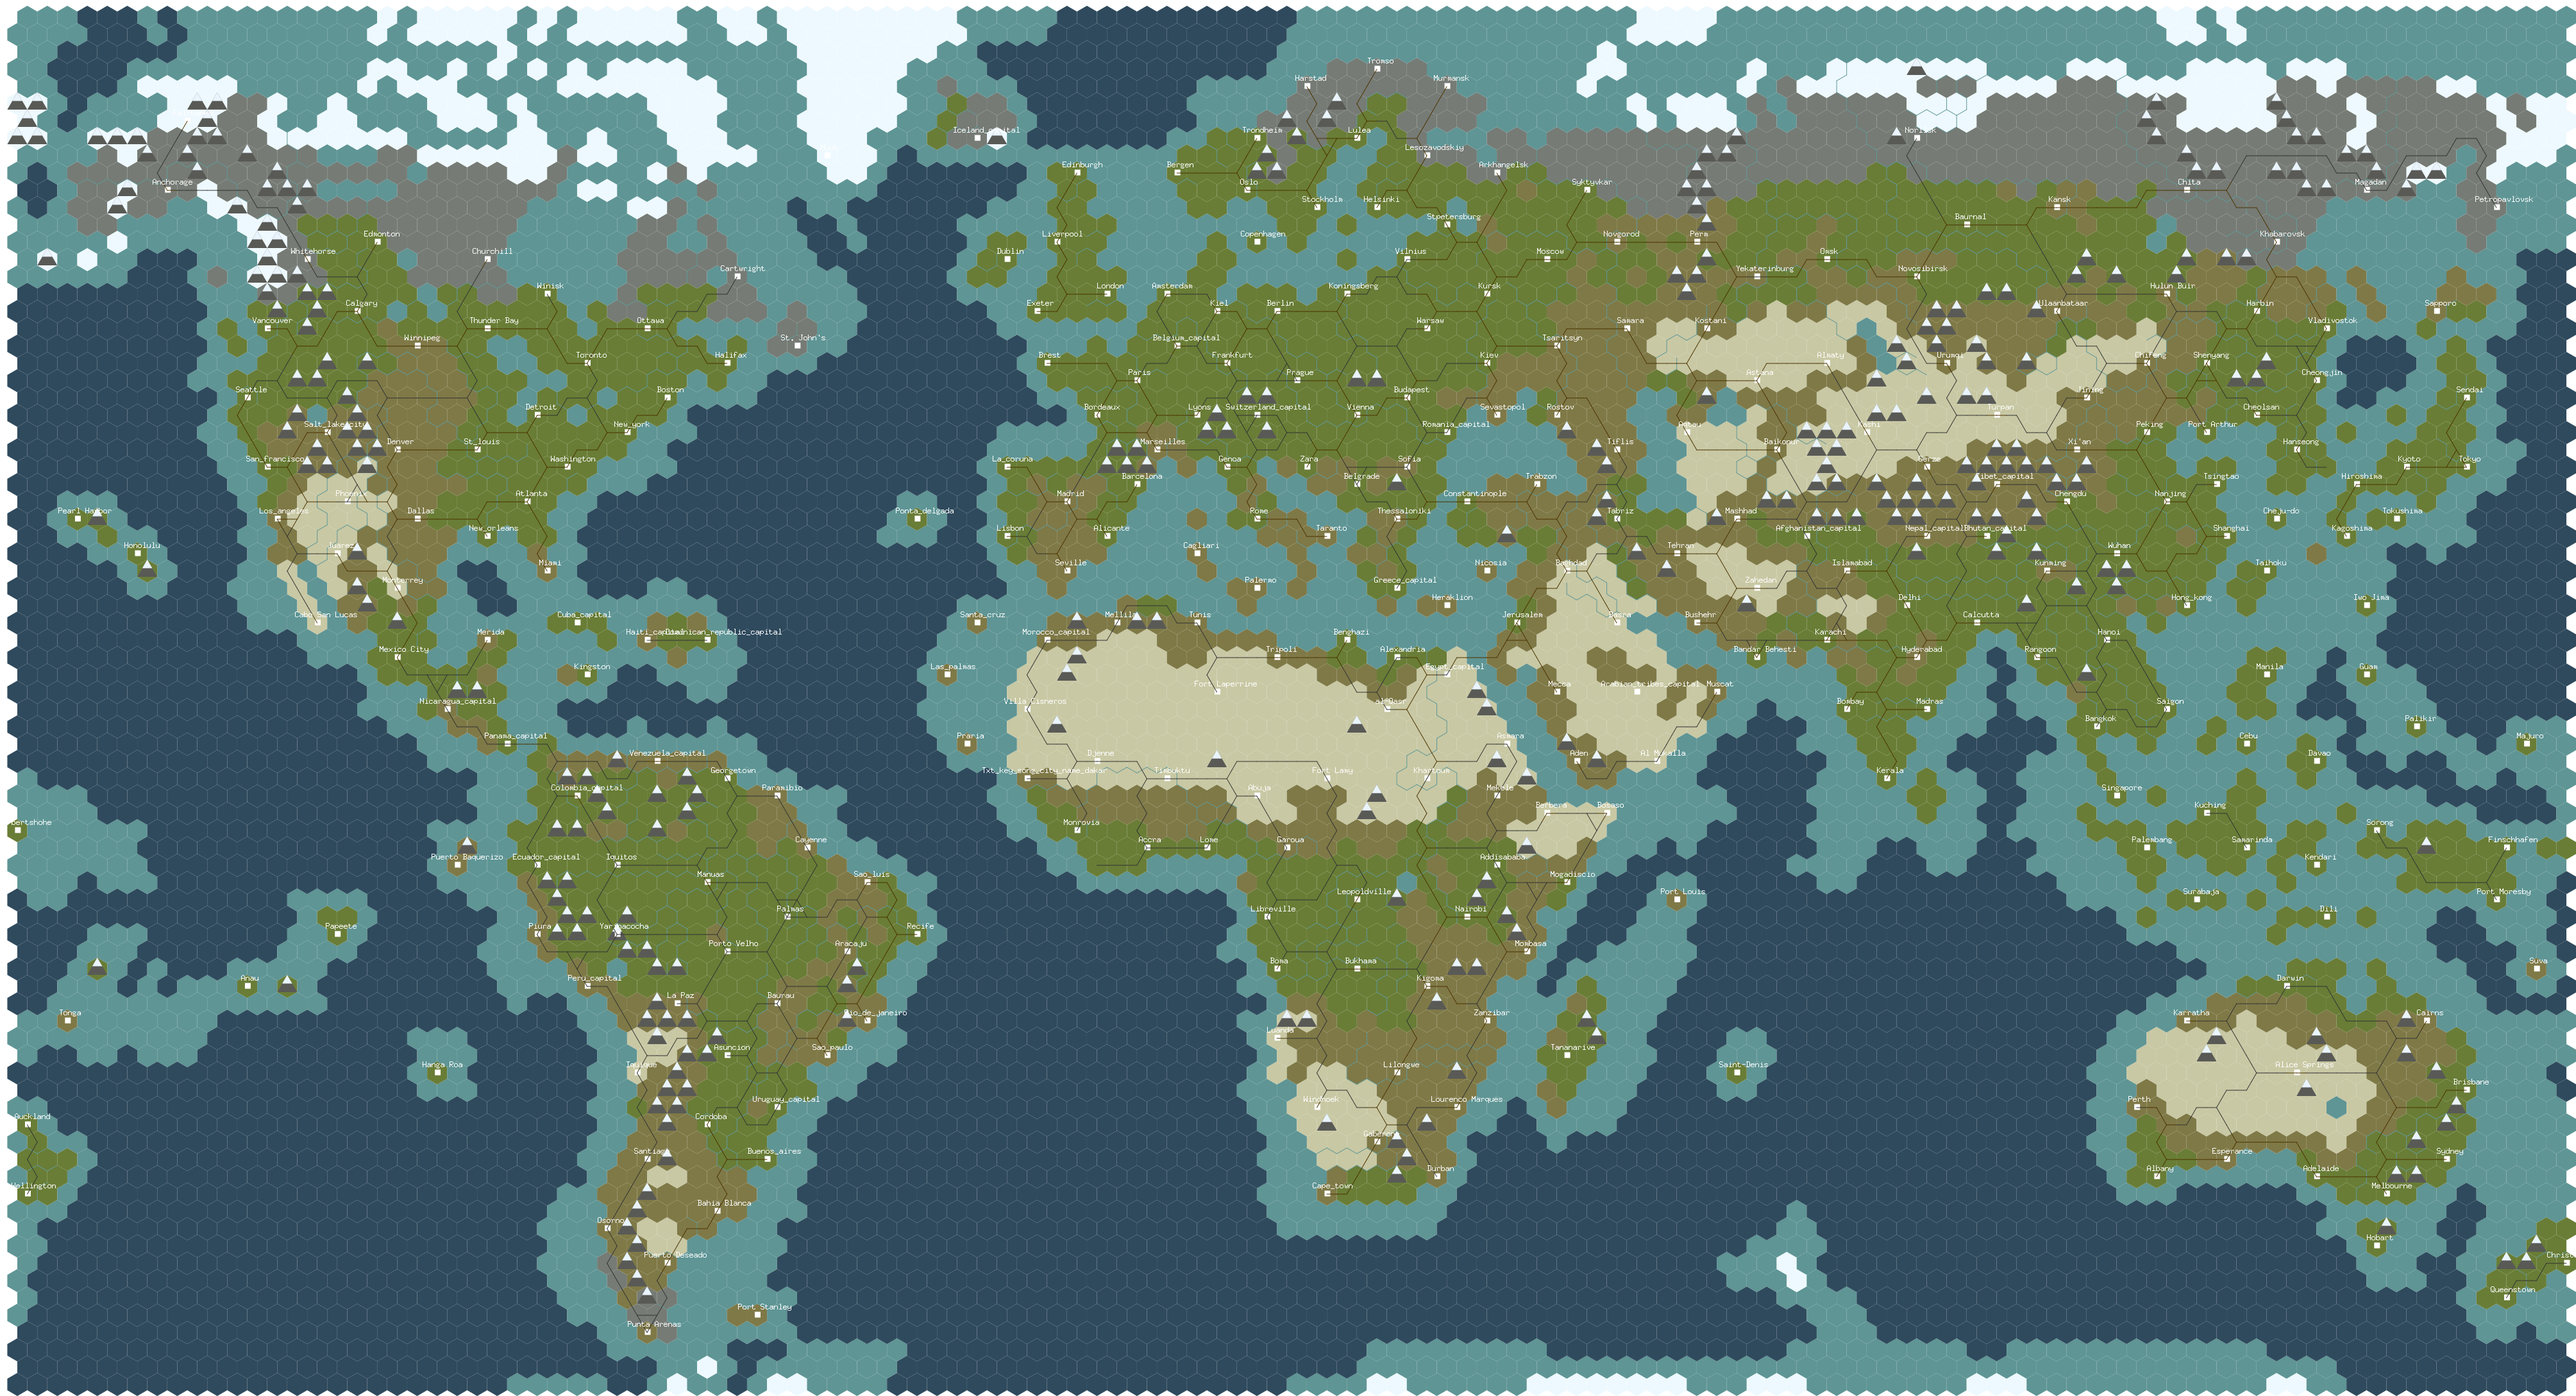
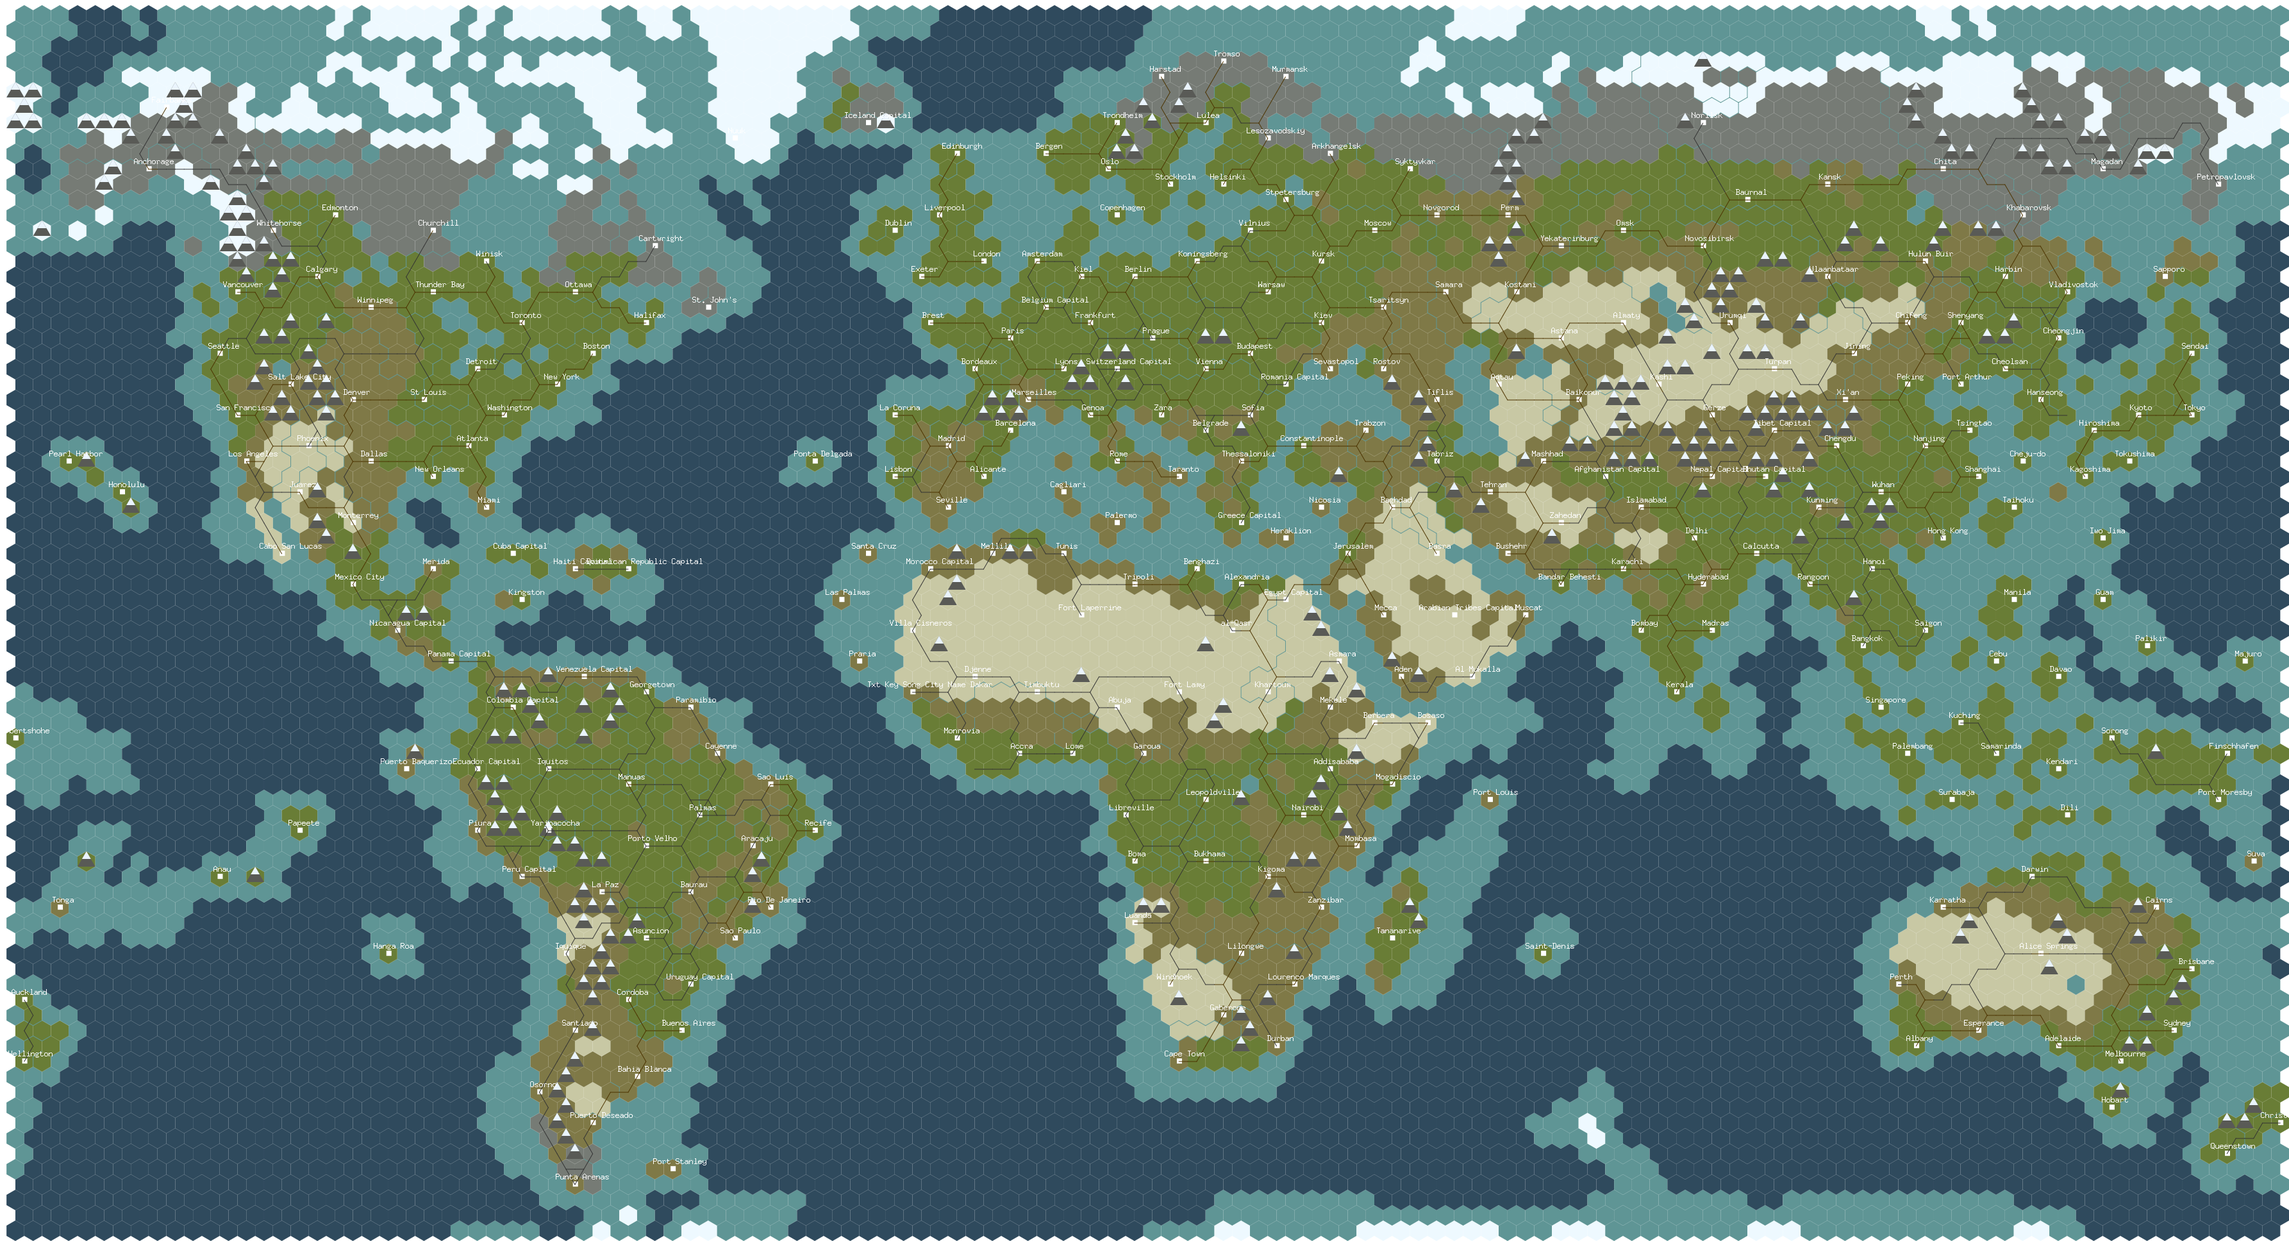
Format city state names

diff --git a/fileio/civ5map.go b/fileio/civ5map.go
@@ -8,6 +8,9 @@ import (
 	"log"
 	"os"
 	"strings"
+
+	"golang.org/x/text/cases"
+	"golang.org/x/text/language"
 )
 
 type Civ5MapHeader struct {
@@ -450,7 +453,9 @@ func ReadCiv5MapFile(filename string) (*Civ5MapData, error) {
 					localizedName := cityData[cityId].Name
 					localizedName = strings.Replace(localizedName, "TXT_KEY_CITY_NAME_", "", -1)
 					localizedName = strings.Replace(localizedName, "TXT_KEY_CITYSTATE_", "", -1)
-					localizedName = string(localizedName[0]) + strings.ToLower(localizedName[1:])
+					localizedName = strings.Replace(localizedName, "_", " ", -1)
+					// If city name has multiple words, set each word's first letter to uppercase
+					localizedName = cases.Title(language.Und).String(localizedName)
 					mapTileImprovementData[i][j].CityName = localizedName
 				} else {
 					mapTileImprovementData[i][j].CityName = cityData[cityId].Name
@@ -474,7 +479,7 @@ func ReadCiv5MapFile(filename string) (*Civ5MapData, error) {
 	mapData := &Civ5MapData{
 		MapHeader:           mapHeader,
 		TerrainList:         terrainList,
-		FeatureTerrainList: featureTerrainList,
+		FeatureTerrainList:  featureTerrainList,
 		MapTiles:            mapTiles,
 		MapTileImprovements: mapTileImprovementData,
 	}

diff --git a/main.go b/main.go
@@ -11,7 +11,7 @@ import (
 )
 
 const (
-	radius = 10.0
+	radius = 16.0
 )
 
 var (

diff --git a/LICENSE.md b/LICENSE.md
@@ -1,0 +1,9 @@
+MIT License
+
+Copyright (c) 2022 Samuel Yuan
+
+Permission is hereby granted, free of charge, to any person obtaining a copy of this software and associated documentation files (the "Software"), to deal in the Software without restriction, including without limitation the rights to use, copy, modify, merge, publish, distribute, sublicense, and/or sell copies of the Software, and to permit persons to whom the Software is furnished to do so, subject to the following conditions:
+
+The above copyright notice and this permission notice shall be included in all copies or substantial portions of the Software.
+
+THE SOFTWARE IS PROVIDED "AS IS", WITHOUT WARRANTY OF ANY KIND, EXPRESS OR IMPLIED, INCLUDING BUT NOT LIMITED TO THE WARRANTIES OF MERCHANTABILITY, FITNESS FOR A PARTICULAR PURPOSE AND NONINFRINGEMENT. IN NO EVENT SHALL THE AUTHORS OR COPYRIGHT HOLDERS BE LIABLE FOR ANY CLAIM, DAMAGES OR OTHER LIABILITY, WHETHER IN AN ACTION OF CONTRACT, TORT OR OTHERWISE, ARISING FROM, OUT OF OR IN CONNECTION WITH THE SOFTWARE OR THE USE OR OTHER DEALINGS IN THE SOFTWARE.
